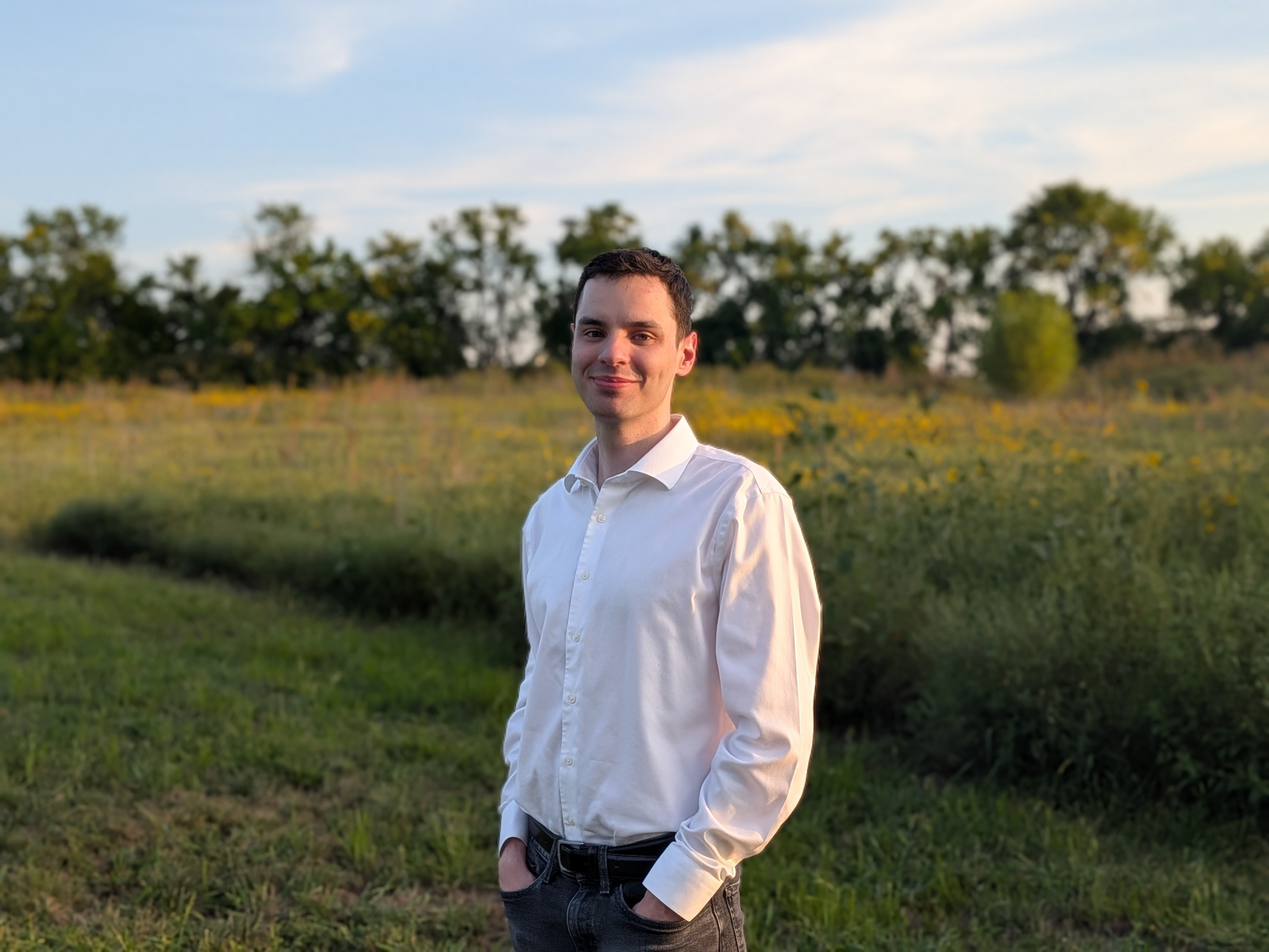
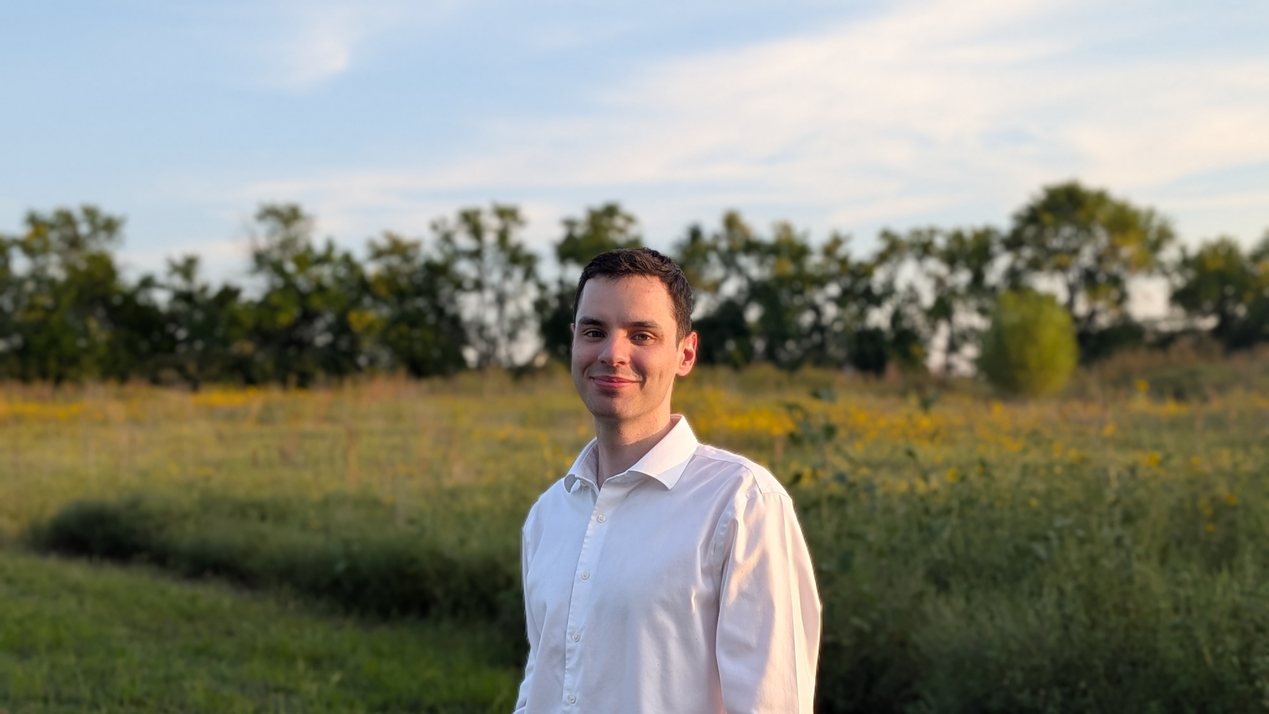
fixed picture a bit

diff --git a/style.css b/style.css
@@ -62,7 +62,7 @@ body > * {
 
 .heroImageContainer > img {
     width: calc(100vw - var(--scrollbarWidth));
-    height: auto;
+    height: 64vh;
     object-fit: cover; /* probably needs to change when parallax is added*/
 }
 
@@ -192,7 +192,7 @@ body > * {
     transition: all 0.3s ease 0.3s;
     opacity: 1;
     pointer-events: all;
-    transform: translate(0,0); //todo WHY? is this just the animation from offscreen when it's clicked?
+    transform: translate(0,0); 
 }
 
 .projectCard__body{
